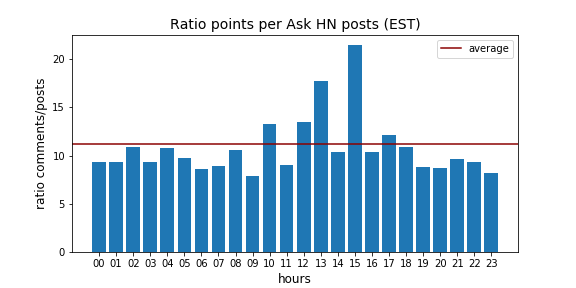
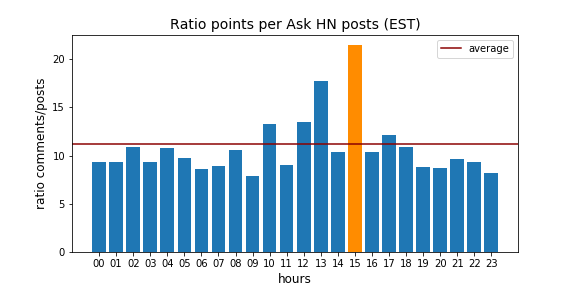
update

Changed region(s): [[0.5938, 0.1562, 0.6562, 0.875]]

diff --git a/README.md b/README.md
@@ -15,18 +15,25 @@ Reddit users published their **Ask HN_** posts mostly during the afternoon with 
 ![show posts per hour](5.show_posts_hours.png)
 
 
-#### hourly ratio comments/posts
-The **Ask HN** posts created between 15-16 are the ones receive the hightest average number of comments per hours. This tendency is not found for the **Show HN** posts. 
+#### Hourly ratio comments/post
+The **Ask HN** posts created between 15-16 are the ones receive the hightest average number of comments per hours. This contrast is less pronounce for  **Show HN** posts with a maximum between 12 and 13.
 
 
 ![ratio_comments_posts_ask](3.ratio_comments_posts_ask.png)
 ![ratio_comments_posts_show](7.ratio_comments_show_posts_hours.png)
 
 
-#### hourly points
+#### hourly ratio points/post
 In average, a  **Ask HN** post 11.26 points and a ***Show HN** post gets 14.78 points
 
-A similar trend 
+The trend is similar to what is observed with the number of comments/posts, high contrast in **Ask HN** posts and more diffuse for **Show HN** posts.
 
-![ratio_points_ask_comments.png](ratio_points_ask_comments.png)
-![ratio_points_show_comments.png](ratio_points_show_comments.png)
+![ratio_points_ask_comments](ratio_points_ask_comments.png)
+![ratio_points_show_comments](ratio_points_show_comments.png)
+
+
+#### Conclusion
+The time dimension is more important for **Ask HN** posts if one wants to optimize the number of comments and points.
+Also, 1500 EST corresponds to the evenings hours (8PM UTC), hence the step increase could be due to Europe population but we do not have that information for confirmation. 
+
+![time zone europe](https://www.google.com/url?sa=i&url=https%3A%2F%2Fec.europa.eu%2Ftransport%2Fthemes%2Fsummertime_en&psig=AOvVaw25WyX1VdaMIn-PH6CRZgi2&ust=1612950204975000&source=images&cd=vfe&ved=0CAIQjRxqFwoTCNjExf7B3O4CFQAAAAAdAAAAABAD)
